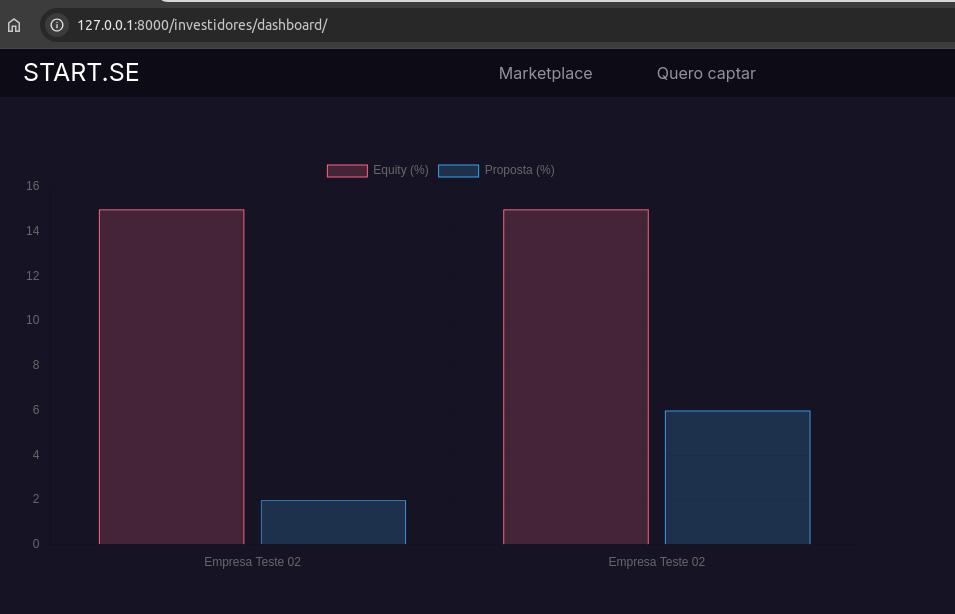
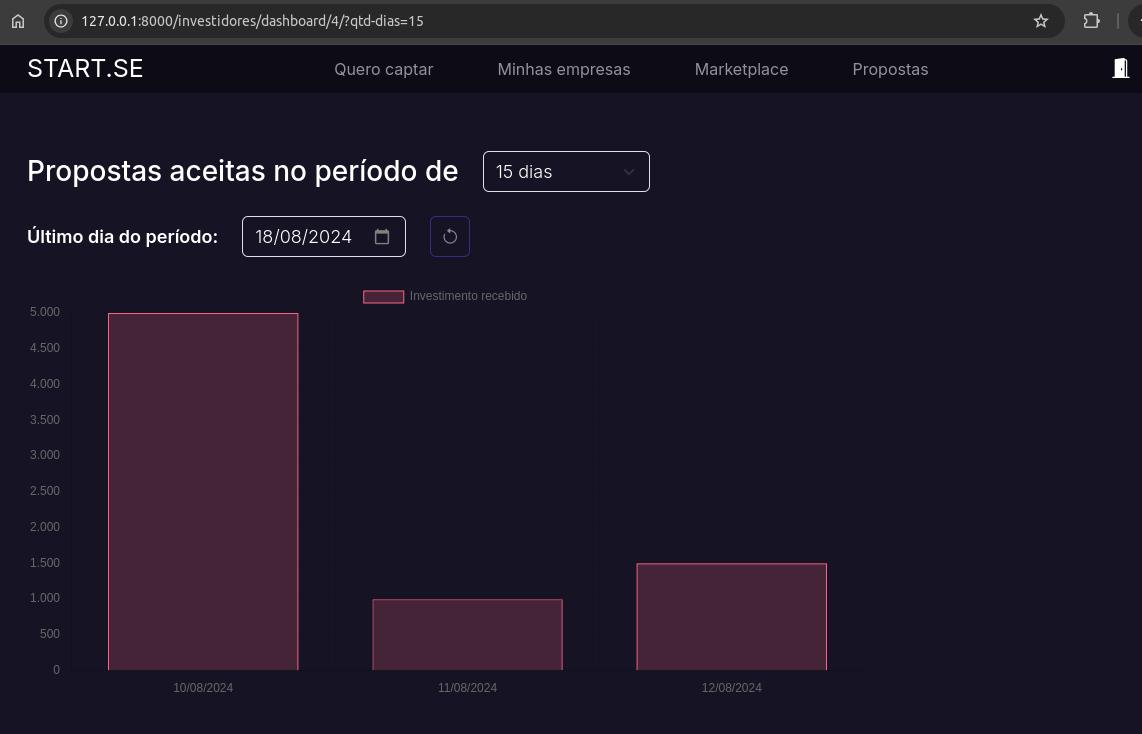
Ajustes gerais

diff --git a/apps/investidores/templates/dashboard.html b/apps/investidores/templates/dashboard.html
@@ -8,32 +8,49 @@
     <link rel="stylesheet" href="{% static 'geral/css/header.css' %}">
     <link rel="stylesheet" href="{% static 'usuarios/css/usuarios.css' %}">
     <link rel="stylesheet" href="{% static 'empresarios/css/empresarios.css' %}">
+    <link rel="stylesheet" href="{% static 'investidores/css/investidores.css' %}">
 {% endblock 'head' %}
 
 {% block 'body' %}
     <div class="container inter">
         <div class="w-75 mt-5">
-            <canvas id="barChart"></canvas>
+            <div class="d-flex align-items-center gap-4 mb-4">
+                <h3 class="mb-0">Propostas aceitas no período de</h3>
+                <select class="form-select w-20" name="qtd-dias" id="qtd-dias">
+                    <option value="7" {% if qtd_dias == 7 %}selected{% endif %}>7 dias</option>
+                    <option value="15" {% if qtd_dias == 15 %}selected{% endif %}>15 dias</option>
+                    <option value="30" {% if qtd_dias == 30 %}selected{% endif %}>30 dias</option>
+                </select>
+            </div>
+            <div class="d-flex align-items-center gap-4 mb-4">
+                <label for="ultimo-dia" class="form-label">Último dia do período:</label>
+                <input type="date" class="form-control data" name="ultimo-dia" id="ultimo-dia" value="{{ultimo_dia|date:'Y-m-d'}}">
+                <a href="#" id="remover-filtro" class="d-flex btn btn-secundario bsm-px10 align-items-center" data-bs-tt="tooltip" data-bs-title="Remover filtro"><i class="bi bi-arrow-counterclockwise"></i></a>
+            </div>
+            
+            {% if not valores %}
+                <p class="bg-color-dark fs-3 fw-700 p-4 b-radius">Nenhuma proposta aceita no período !</p>
+            {% else %}
+                <canvas id="barChart"></canvas>
+            {% endif %}
+                
         </div>
+
         <script src="https://cdn.jsdelivr.net/npm/chart.js"></script>
         <script>
+            const el_ultimo_dia = document.getElementById('ultimo-dia');
+            const el_qtd_dias = document.getElementById('qtd-dias');
+            const el_remover_filtro = document.getElementById('remover-filtro');
             const ctx = document.getElementById('barChart');
             const data = {
                 labels: {{labels|safe}},
                 datasets: [
                     {
-                        label: 'Equity (%)',
+                        label: 'Investimento recebido',
                         backgroundColor: 'rgb(255, 99, 132, 0.2)',
                         borderColor: 'rgb(255, 99, 132)',
                         borderWidth: 1,
-                        data: {{percentuais_equity|safe}},
-                    },
-                    {
-                        label: 'Proposta (%)',
-                        backgroundColor: 'rgb(54, 162, 235, 0.2)',
-                        borderColor: 'rgb(54, 162, 235)',
-                        borderWidth: 1,
-                        data: {{percentuais_proposta|safe}},
+                        data: {{valores|safe}},
                     },
                 ]
             };
@@ -50,6 +67,23 @@
                     }
             });
             
+            el_ultimo_dia.addEventListener('change', () => {
+                const url_params = new URLSearchParams(window.location.search);
+                url_params.set('ultimo-dia', el_ultimo_dia.value);
+                window.location.search = url_params;
+            });
+            el_qtd_dias.addEventListener('change', () => {
+                const url_params = new URLSearchParams(window.location.search);
+                url_params.set('qtd-dias', el_qtd_dias.value);
+                window.location.search = url_params;
+            });
+            el_remover_filtro.addEventListener('click', () => {
+                const url_params = new URLSearchParams(window.location.search);
+                url_params.delete('qtd-dias', el_qtd_dias.value);
+                url_params.delete('ultimo-dia', el_ultimo_dia.value);
+                window.location.search = url_params;
+            });
+
         </script>
     </div>
 {% endblock 'body' %}

diff --git a/apps/investidores/templates/lista_propostas.html b/apps/investidores/templates/lista_propostas.html
@@ -23,7 +23,7 @@
                     {% endif %} autofocus>
                 </div>
                 <input type="submit" class="btn-cadastro bsm-px20" value="Filtrar">
-                <a href="{% url 'lista_propostas' %}" class="btn-secundario bsm-px10" data-bs-tt="tooltip" data-bs-title="Remover filtro"><i class="bi bi-arrow-counterclockwise"></i></a>
+                <a href="{% url 'lista_propostas' %}" class="btn-secundario bsm-px10 d-flex align-items-center" data-bs-tt="tooltip" data-bs-title="Remover filtro"><i class="bi bi-arrow-counterclockwise"></i></a>
             </div>
         </form>
         <div class="bg-color-dark p-5">
@@ -49,14 +49,23 @@
                                     </div>
                                 </td>
                                 <td>
-                                    <span class="badge border">{{proposta.get_status_display}}</span>
+                                    <span class="w-70 badge 
+                                        {% if proposta.status == 'PA' %}
+                                            badge-green
+                                        {% elif proposta.status == 'PE' %}
+                                            badge-blue
+                                        {% elif proposta.status == 'PR' %}
+                                            bg-danger
+                                        {% endif %}">
+                                        {{proposta.get_status_display}}
+                                    </span>
                                 </td>
                                 <td class="text-center">
-                                    {% if proposta.concretizada %}
-                                        <i class="bi bi-check-lg bg-info">
-                                    {% else %}
-                                        <i class="bi bi-x-lg bg-warning"></i>
-                                    {% endif %}
+                                    <a href="{% url 'ver_empresa' proposta.empresa.id %}" class="btn-cadastro
+                                        {% if proposta.status in 'PAPR' %}
+                                            not-active
+                                        {% endif %}"
+                                    >Decidir</a>
                                 </td>
                             </tr>
                         {% endfor %}

diff --git a/apps/investidores/templates/sugestoes.html b/apps/investidores/templates/sugestoes.html
@@ -24,13 +24,13 @@
                     {% csrf_token %}
                     <div class="mb-4">
                         <h3 class="fw-700">Tipo de investidor</h3>
-                        <p>Selecione conservador caso busque investimentos de menos risco
-                            e com menor retorno, selecione despojado se prefere correr mais riscos
-                            e ter maiores possíbilidades de retorno.</p>
+                        <p>Selecione em qual tipo de investidor você se enquadra.</p>
                         <select name="tipo" class="form-select w-70" autofocus>
-                            <option value="C" {% if tipo == 'C' %}selected{% endif%}>Conservador</option>
-                            <option value="D" {% if tipo == 'D' %}selected{% endif%}>Despojado</option>
-                            <option value="M" {% if tipo == 'M' %}selected{% endif%}>Moderado</option>
+                            <option value="C" {% if tipo == 'C' %}selected{% endif%}>Conservador (investimentos de menos risco
+                                e com menor retorno)</option>
+                            <option value="D" {% if tipo == 'D' %}selected{% endif%}>Despojado (correr mais riscos
+                                e ter maiores possíbilidades de retorno)</option>
+                            <option value="M" {% if tipo == 'M' %}selected{% endif%}>Moderado (riscos e retornos intermediários)</option>
                         </select>
                     </div>
                     <div class="mb-4">

diff --git a/templates/partials/header.html b/templates/partials/header.html
@@ -10,13 +10,23 @@
                 <div class="mx-auto">
                     <ul class="navbar-nav align-items-center gap-5">
                         <li class="nav-item">
+                            <a class="nav-link" href="{% url 'cadastrar_empresa' %}">
+                                Quero captar
+                            </a>
+                        </li>
+                        <li class="nav-item">
                             <a class="nav-link" href="{% url 'lista_empresas' %}">
+                                Minhas empresas
+                            </a>
+                        </li>
+                        <li class="nav-item">
+                            <a class="nav-link" href="{% url 'sugestoes' %}">
                                 Marketplace
                             </a>
                         </li>
                         <li class="nav-item">
-                            <a class="nav-link" href="{% url 'cadastrar_empresa' %}">
-                                Quero captar
+                            <a class="nav-link" href="{% url 'lista_propostas' %}">
+                                Propostas
                             </a>
                         </li>
                     </ul>

diff --git a/apps/empresarios/templates/empresa.html b/apps/empresarios/templates/empresa.html
@@ -29,10 +29,15 @@
                     </div>
                 </div>
                 <div class="d-flex justify-content-between fs-3 fw-700">
-                    <label>{{qtd_investidores}} investidor{{qtd_investidores|pluralize:"es"}}</label>
-                    <label>{{total_captado|floatformat:'2g'}} Captado</label>
+                    <div class="">
+                        <h2 class="fw-700 mb-0">{{qtd_investidores}} investidor{{qtd_investidores|pluralize:"es"}}</h2>
+                        <a href="#" class="color-secondary fs-5 fw-700">Ver investidores</a>
+                    </div>
+                    <div class="">
+                        <h2 class="fw-700 mb-0">{{total_captado|floatformat:'2g'}} Captado</h2>
+                        <a href="{% url 'dashboard' empresa.id %}" class="color-secondary fs-5 fw-700">Dashboard</a>
+                    </div>
                 </div>
-                <a href="#" class="color-secondary fw-700">Ver investidores</a>
                 <hr>
                 <div class="d-flex justify-content-between gap-5 mt-3">
                     <div class="w-60 fw-700">

diff --git a/apps/empresarios/templates/lista_empresas.html b/apps/empresarios/templates/lista_empresas.html
@@ -23,7 +23,7 @@
                     {% endif %} autofocus>
                 </div>
                 <input type="submit" class="btn-cadastro bsm-px20" value="Filtrar">
-                <a href="{% url 'lista_empresas' %}" class="btn-secundario bsm-px10" data-bs-tt="tooltip" data-bs-title="Remover filtro"><i class="bi bi-arrow-counterclockwise"></i></a>
+                <a href="{% url 'lista_empresas' %}" class="btn-secundario bsm-px10 d-flex align-items-center" data-bs-tt="tooltip" data-bs-title="Remover filtro"><i class="bi bi-arrow-counterclockwise"></i></a>
             </div>
         </form>
         <div class="bg-color-dark p-5">

diff --git a/apps/empresarios/templates/cadastro_empresa.html b/apps/empresarios/templates/cadastro_empresa.html
@@ -12,7 +12,7 @@
 
 {% block 'body' %}
     <div class="container">
-        <h1 class="mt-3">Cadastro empresa</h1>
+        <h1 class="mt-4 mb-1">Cadastro empresa</h1>
         <hr class="my-0">
         {% include "partials/messages.html" %}
         <form action="{% url 'cadastrar_empresa' %}" method="POST" enctype="multipart/form-data">

diff --git a/templates/static/empresarios/css/empresarios.css b/templates/static/empresarios/css/empresarios.css
@@ -78,3 +78,13 @@
 .text-justify {
     text-align: justify;
 }
+
+.bi {
+    height: 25px;
+}
+
+.not-active {
+    color: var(--secondary-color);
+    cursor: not-allowed;
+    pointer-events: none;
+}

diff --git a/templates/static/investidores/css/investidores.css b/templates/static/investidores/css/investidores.css
@@ -3,3 +3,7 @@
     border: none;
     width: 18rem;
 }
+
+.b-radius {
+    border-radius: .5rem;
+}

diff --git a/templates/static/geral/css/geral.css b/templates/static/geral/css/geral.css
@@ -71,7 +71,7 @@
 }
 
 .data {
-    width: 124px;
+    width: 164px;
 }
 
 .data-mes {

diff --git a/apps/investidores/views.py b/apps/investidores/views.py
@@ -1,8 +1,11 @@
 from datetime import datetime, timedelta
 from django.contrib import messages
 from django.contrib.auth.decorators import login_required
+from django.db.models.aggregates import Sum
+from django.db.models.functions import TruncDay
 from django.http import Http404
 from django.shortcuts import redirect, render, get_object_or_404
+from django.utils import timezone
 from empresarios.models import Documento, Empresa, Metrica
 from .models import PropostaInvestimento
 from brutils import format_cnpj
@@ -111,6 +114,7 @@ def realizar_proposta(request, id_emp):
 
         try:
             pi = PropostaInvestimento(
+                data = datetime.today().date(),
                 valor = valor,
                 percentual = percentual,
                 empresa = empresa,
@@ -121,7 +125,6 @@ def realizar_proposta(request, id_emp):
             messages.add_message(request, messages.WARNING, f'Erro: {e}')
             return redirect(f'/investidores/acessar-empresa/{id_emp}')
 
-        #messages.add_message(request, messages.SUCCESS, f'Proposta enviada com sucesso')
         return redirect(f'/investidores/assinar-contrato/{pi.id}')
 
 
@@ -160,7 +163,7 @@ def assinar_contrato(request, id_pi):
 @login_required
 def lista_propostas(request):
     template_name = 'lista_propostas.html'
-    propostas = PropostaInvestimento.objects.filter(investidor=request.user)
+    propostas = PropostaInvestimento.objects.filter(empresa__user=request.user).exclude(status='AA')
     busca = request.GET.get('empresa')
     if busca:
         propostas = propostas.filter(empresa__nome__icontains=busca)
@@ -174,13 +177,58 @@ def lista_propostas(request):
 
 
 @login_required
-def dashboard(request):
+def dashboard(request, id_emp):
     template_name = 'dashboard.html'
-    propostas = PropostaInvestimento.objects.filter(investidor=request.user)
+    empresa = Empresa.objects.get(id=id_emp)
+    qtd_dias = request.GET.get('qtd-dias')
+    ultimo_dia = request.GET.get('ultimo-dia')
+
+    qtd_dias = 7 if not qtd_dias else int(qtd_dias)
+
+    if ultimo_dia:
+        ultimo_dia = datetime.strptime(ultimo_dia, '%Y-%m-%d')
+    else:
+        ultimo_dia = timezone.now().date()
+
+    sete_dias_atras = ultimo_dia - timedelta(days=qtd_dias - 1)
+
+    '''Forma simples
+
+    propostas_diarias = {}
+
+    for i in range(7):
+        dia = sete_dias_atras + timedelta(days=i)
+
+        propostas = PropostaInvestimento.objects.filter(
+            empresa=empresa,
+            status='PA',
+            data=dia
+        )
+
+        total_dia = 0
+        for proposta in propostas:
+            total_dia += proposta.valor
+        
+        propostas_diarias[dia.strftime('%d/%m/%Y')] = float(total_dia)
+    '''
+
+    # Forma mais otimizada e avançada
+    propostas_diarias = PropostaInvestimento.objects.filter(
+        empresa=empresa,
+        status='PA',
+        data__range=[sete_dias_atras, ultimo_dia]
+    ).values('data').annotate(total=Sum('valor')).order_by('data')
+
+    lista_datas = [datetime.strftime(p['data'], '%d/%m/%Y') for p in propostas_diarias]
+    lista_totais = [float(p['total']) for p in propostas_diarias]
+
     context = {
-        'labels': [p.empresa.nome for p in propostas],
-        'percentuais_equity': [p.empresa.percentual_equity for p in propostas],
-        'percentuais_proposta': [int(p.percentual) for p in propostas],
+        'qtd_dias': qtd_dias,
+        'ultimo_dia': ultimo_dia,
+        # 'labels': list(propostas_diarias.keys()),
+        # 'valores': list(propostas_diarias.values()),
+        'labels': lista_datas,
+        'valores': lista_totais,
     }
 
     return render(request, template_name, context)

diff --git a/apps/empresarios/views.py b/apps/empresarios/views.py
@@ -1,10 +1,12 @@
 from django.shortcuts import redirect, render, get_object_or_404
+from django.conf import settings
 from django.contrib import messages
 from django.contrib.auth.decorators import login_required
 from django.urls import reverse
 from investidores.models import PropostaInvestimento
 from .models import Documento, Empresa, Metrica
 from brutils import is_valid_cnpj, format_cnpj
+import os
 
 
 @login_required
@@ -164,7 +166,10 @@ def excluir_doc(request, id):
         return redirect(reverse('lista_empresas'))
     
     try:
+        path_arquivo = os.path.join(settings.MEDIA_ROOT, str(documento.arquivo))
         documento.delete()
+        if os.path.exists(path_arquivo):
+            os.remove(path_arquivo)
         messages.add_message(request, messages.SUCCESS, 'Documento excluído com sucesso')
     except Exception as e:
         messages.add_message(request, messages.ERROR, f'Ocorreu erro: {e}')
